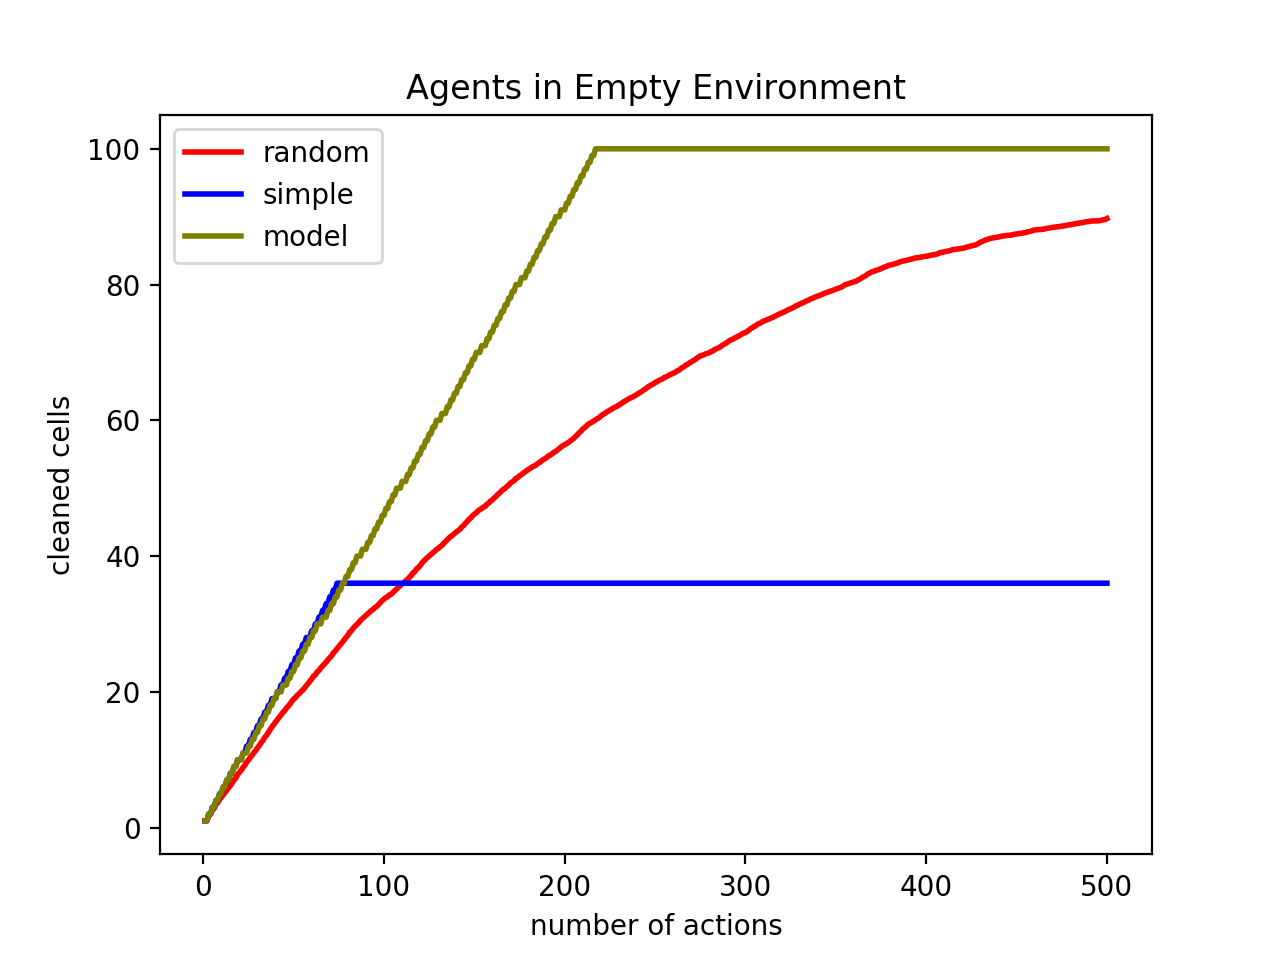
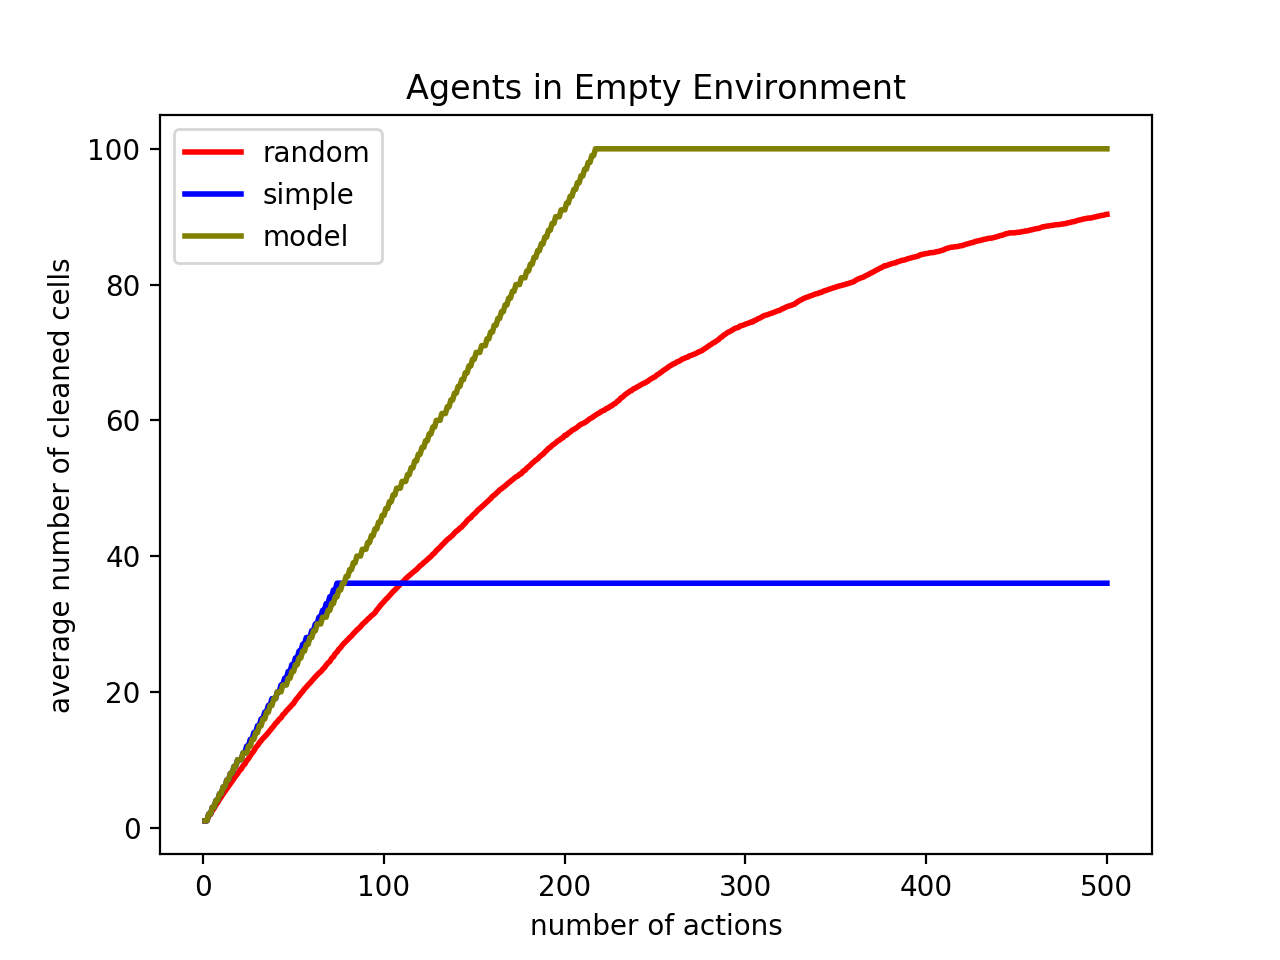
printing

diff --git a/run_exp.py b/run_exp.py
@@ -32,7 +32,7 @@ def multiple_runs(agent, agent_name, env_type=EMPTY, num_runs=50):
         num_runs -= 1
 
         clean_cells, num_actions, list_of_clean_cells_at_each_step = single_run(agent, agent_name, env_type,
-                                                                                print_grid=False)
+                                                                                print_grid=True)
         list_of_simple_ratios.append((float(clean_cells / num_actions)))
         list_of_derived_ratios.append((float(clean_cells / num_actions) * clean_cells))
         list_of_num_actions.append(num_actions)

diff --git a/plot_graphs.py b/plot_graphs.py
@@ -14,7 +14,7 @@ def plot_relation(random_agent, simple_agent, model_agent, env_type):
     plt.plot('x', 'random', data=df, marker='', color='red', linewidth=2)
     plt.plot('x', 'simple', data=df, marker='', color='blue', linewidth=2)
     plt.plot('x', 'model', data=df, marker='', color='olive', linewidth=2)
-    plt.ylabel('cleaned cells')
+    plt.ylabel('average number of cleaned cells')
     plt.xlabel('number of actions')
     plt.title(f'Agents in {env_type}')
     plt.legend()
